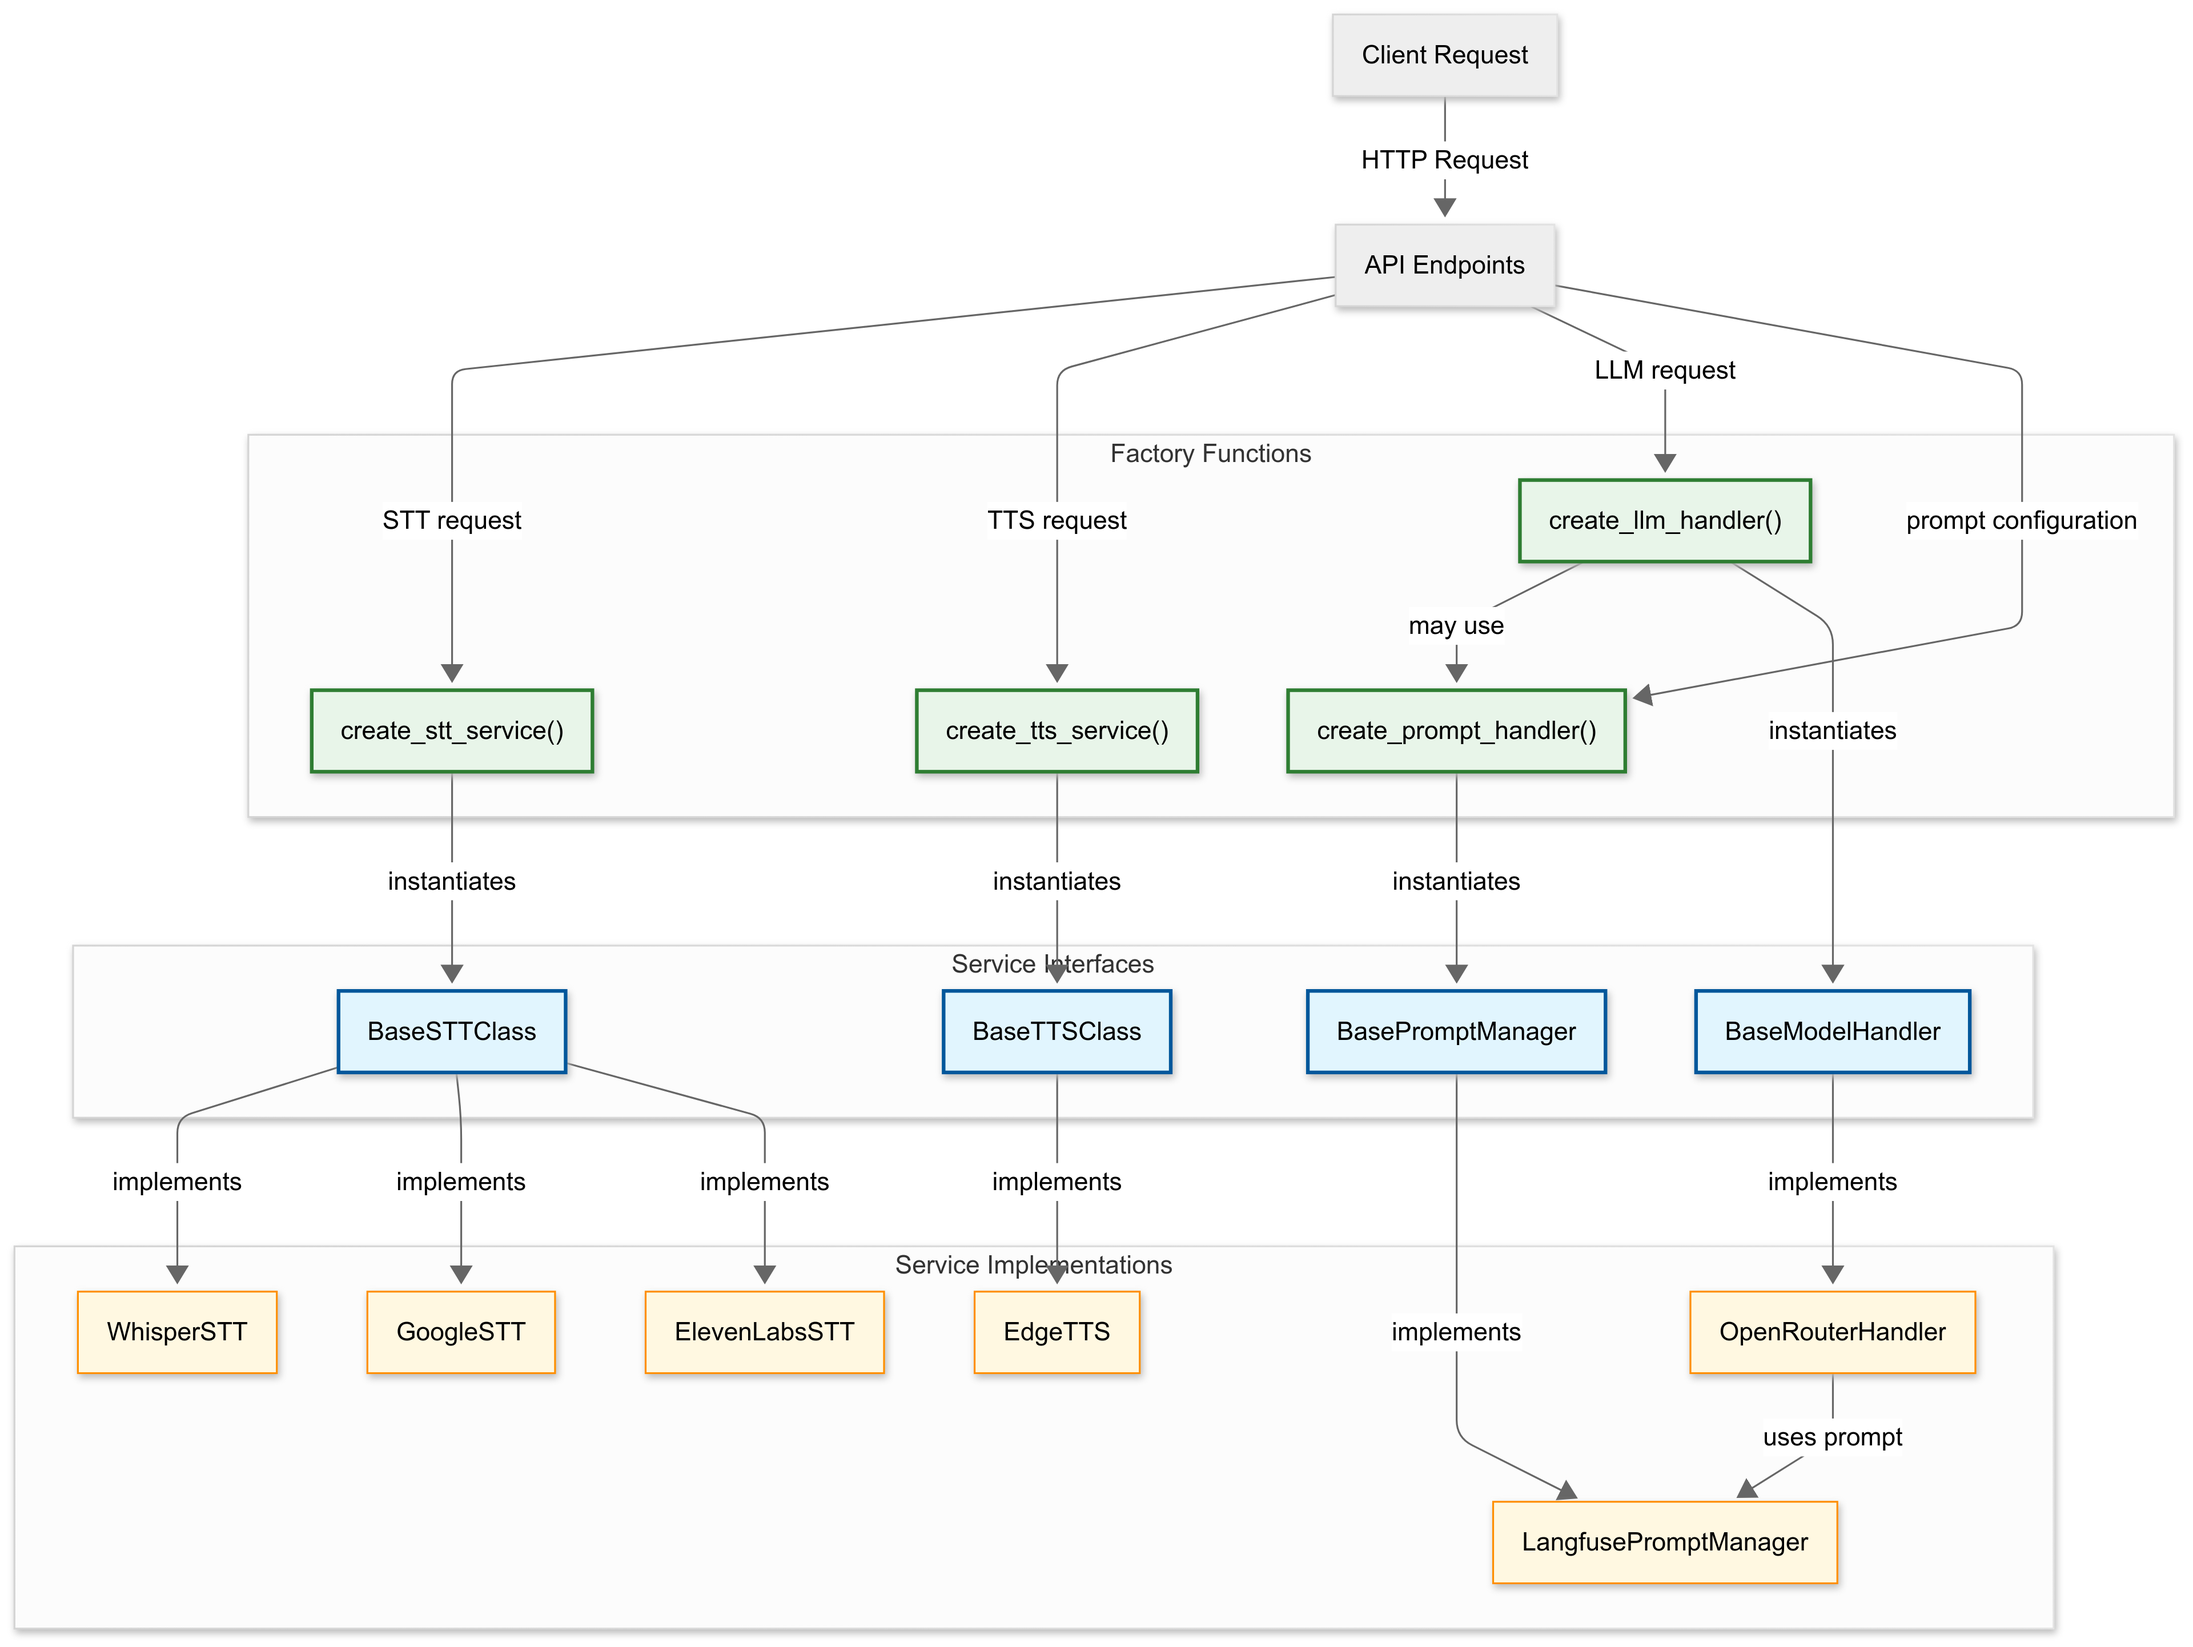
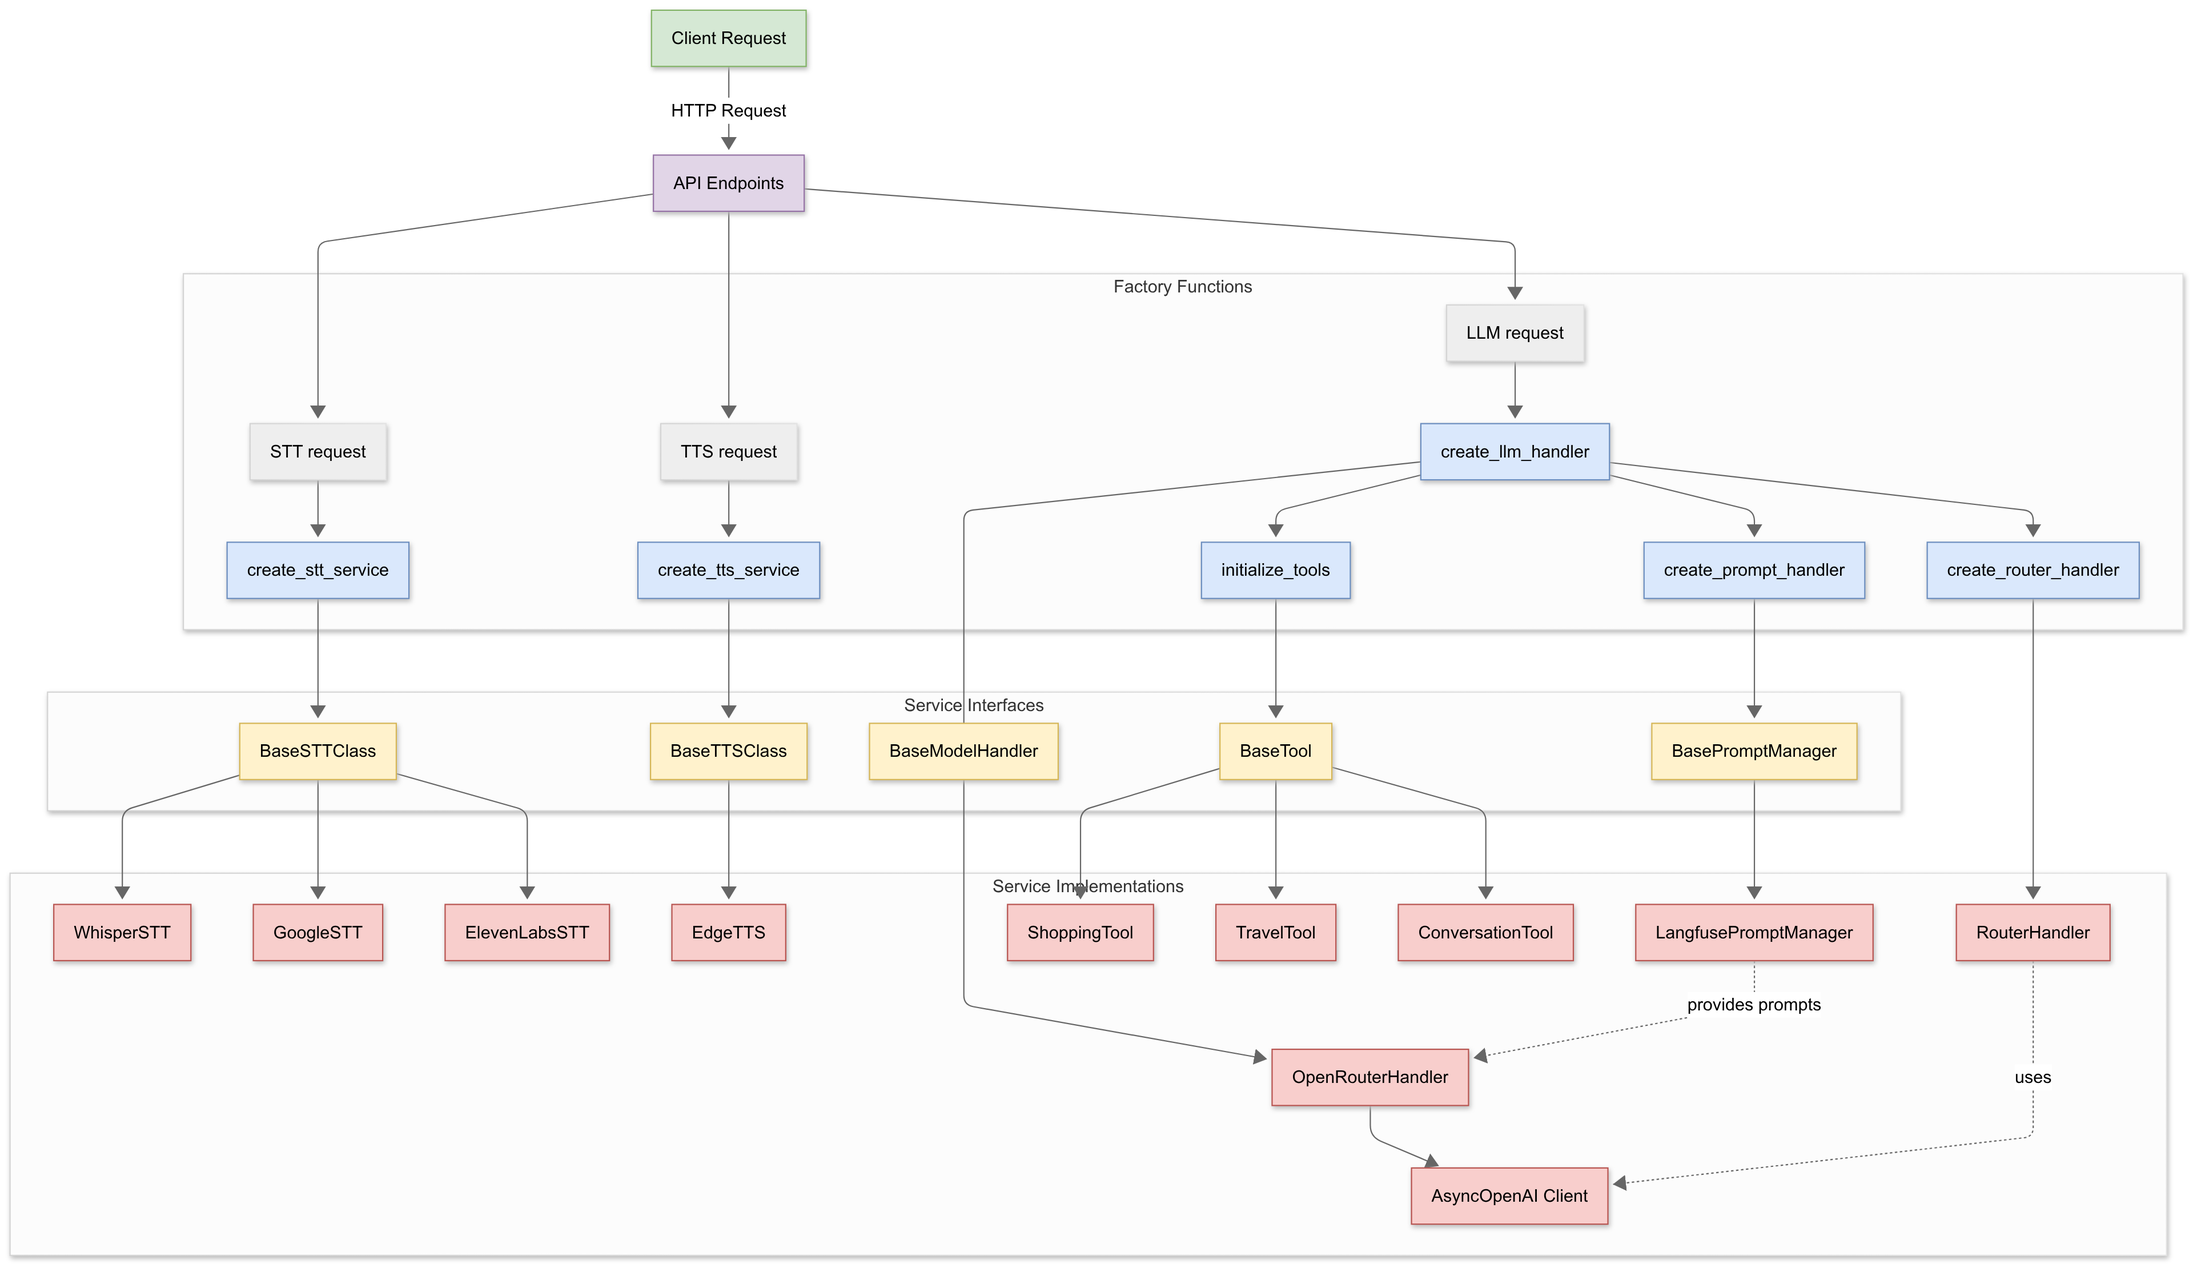
doc_updated

diff --git a/docs/styles/custom.css b/docs/styles/custom.css
@@ -49,7 +49,7 @@ font-weight: 250;
   display: block;
   margin: 2rem auto;
   max-width: 100%;
-  padding: 2px;
+  padding: 5px;
   border-radius: 12px;
   box-shadow: 0 10px 25px rgba(0, 0, 0, 0.035);
 }

diff --git a/docs/developer.md b/docs/developer.md
@@ -11,9 +11,9 @@ The system integrates multiple Speech-to-Text (STT) and Text-to-Speech (TTS) ser
 To understand the operation of the PatternAI Agent, this section will guide through the process flow, from the initial receipt of a user's request to the generation and delivery of a response. Key system components and their interactions will be unpacked.
 
 ### The Foundation {: .sub-heading}
-- `/app`: This directory houses the core application logic and services that drive the agent's functionality. It includes:
+- **[/app](#){ style="color:rgb(7,10,39);"}** : This directory houses the core application logic and services that drive the agent's functionality. It includes:
 
-  `/services/`: encapsulates the core AI processing logic of the PatternAI Agent. It defines abstract interfaces and provides concrete implementations for key AI processing capabilities.
+  **[/services](#){ style="color:rgb(7,10,39);"}** : encapsulates the core AI processing logic of the PatternAI Agent. It defines abstract interfaces and provides concrete implementations for key AI processing capabilities.
 
   These capabilities are organized into the following sub-modules:
 
@@ -21,28 +21,59 @@ To understand the operation of the PatternAI Agent, this section will guide thro
     ```
     services/
     ├── llm/
-    │   ├── __init__.py              # Factory: creates LLM handler (OpenRouter/custom)
-    │   ├── base_handler.py          # Abstract base class for LLMs (defines prompt + interface)
-    │   └── openrouter_handler.py    # Implementation using OpenRouter API
+    │   ├── __init__.py                # Factory: creates LLM handler (OpenRouter/custom)
+    │   ├── base_handler.py            # Abstract base class for LLMs (defines prompt + interface)
+    │   ├── openrouter_handler.py      # Implementation using OpenRouter API
+    │   ├── router_handler.py          # Routes queries to tools based on user intent
+    │   ├── conversation_history.py    # Maintains chat history with truncation logic
+    │   ├── prompts/                   # Prompt management logic (Langfuse or static)
+    │   ├── tools/                     # Tool execution logic and OpenAI-compatible tool specs
+    │   └── validators/                # Streaming and final response validation logic
     │
     ├── stt/
-    │   ├── __init__.py              # Factory: selects STT engine
-    │   ├── base_stt_handler.py      # Abstract base class for STT services
-    │   ├── whisper_stt.py           # STT via OpenAI Whisper API
-    │   ├── google_stt.py            # STT via Google Cloud Speech API
-    │   └── elevenlabs_stt.py        # STT via ElevenLabs API
+    │   ├── __init__.py                # Factory: selects STT engine
+    │   ├── base_stt_handler.py        # Abstract base class for STT services
+    │   ├── whisper_stt.py             # STT via OpenAI Whisper API
+    │   ├── google_stt.py              # STT via Google Cloud Speech API
+    │   ├── elevenlabs_stt.py          # STT via ElevenLabs API
+    │   └── stt_validation.py          # Validation and metrics for STT transcription
     │
     └── tts/
-        ├── __init__.py              # Factory: selects TTS engine
-        ├── base_tts_handler.py      # Abstract TTS base class, defines text-to-audio interface
-        └── edge_tts.py              # TTS implementation using Microsoft Edge TTS
+        ├── __init__.py               # Factory: selects TTS engine
+        ├── base_tts_handler.py       # Abstract TTS base class, defines text-to-audio interface
+        ├── edge_tts.py               # TTS implementation using Microsoft Edge TTS
+        └── tts_validation.py         # Validation for text-to-speech output 
     ```
 
-  `/llm`: provides a flexible interface for interacting with various Large Language Models (LLMs) through OpenRouter, with support for prompt management and model fallback mechanisms. The module is designed to be extensible, allowing for easy integration of additional LLM providers in the future.
+**[/llm](#){ style="color:rgb(7,10,39);"}** : orchestrates intelligent conversation flow through a sophisticated multi-layered architecture that transforms user intent into contextual, validated responses.Rather than simply connecting to language models, this module implements a complete reasoning pipeline that routes requests, maintains conversation context, validates outputs, and ensures reliable agent behavior.
 
-  `/stt`: a unified interface for converting speech to text using multiple cloud providers. It supports Whisper (OpenAI), Google Cloud Speech-to-Text, and ElevenLabs services through a common abstraction layer.
+#### LLM Service: Multi-Agent Architecture {: .sub-heading}
+##### **Tier 1 : Intent Recognition & Tool Selection**
+How does the system know where to send a request like "I need donuts"?
 
-  `/tts`: a standardized interface for converting text to speech using various synthesis engines. Currently implemented with Microsoft Edge's TTS service, the module is designed for easy extensibility to support additional providers.
+It’s handled by `router_handler.py/` and `tools.py/` using a dedicated LLM as an intelligent dispatcher. Using the configured LLM, it analyzes user intent and selects the most appropriate specialized tool from the available arsenal defined in tools_config.yaml. This isn't simple keyword matching - the router understands context, recognizing the difference between "I need coffee" **(shopping intent)** and "I want to travel to coffee county" **(travel intent)**. The routing system leverages a structured approach:
+
+- Analyzes user input against tool descriptions from **ROUTER_SYSTEM_PROMPT**
+- returns JSON-formatted routing decisions via `RouterHandler.route()`
+- `initialize_tools()` creates bidirectional mappings between tools and agents
+- Tools operate through unified interface `base_tool.py` with consistent behavior
+- Each tool knows its agent ID, enabling seamless transition to specialized processing
+
+!!! note "Note"
+    New domains can be added by simply creating new tool classes and updating the YAML configuration
+
+##### **Tier 2 : Contextual Conversation Management**
+Before any response generation begins, the layer `conversation_history.py/` enriches the interaction with memory. The ConversationHistory class maintains an intelligent sliding window of past interactions, applying both message count limits and token-based truncation to optimize context while preserving memory efficiency.
+
+##### **Tier 3 : Response Generation & Built-in Validation**
+This layer orchestrates LLM interaction through OpenRouterHandler, serving as the bridge between the internal agent system and external language models. This handler manages the complete response lifecycle:
+This handler manages the complete response lifecycle with integrated prompt management, streaming generation, real-time Pydantic validation of all streaming LLM responses to ensure structured output formatting and type safety.
+
+
+
+**[/stt](#){ style="color:rgb(7,10,39);"}** : a unified interface for converting speech to text using multiple cloud providers. It supports Whisper (OpenAI), Google Cloud Speech-to-Text, and ElevenLabs services through a common abstraction layer.
+
+**[/tts](#){ style="color:rgb(7,10,39);"}** : a standardized interface for converting text to speech using various synthesis engines. Currently implemented with Microsoft Edge's TTS service, the module is designed for easy extensibility to support additional providers.
 
 ### Service Traversal {: .sub-heading}
 The system operates through a series of coordinated steps that leverage the abstract interfaces and factory pattern to process user requests.
@@ -56,7 +87,7 @@ After initialization, the system interacts with each service through its abstrac
 
 The LLM processing and text-to-speech (TTS) flows follow a similar architectural pattern.
 
-- For LLMs, the system uses `create_llm_handler` to instantiate an `OpenRouterHandler`, which manages prompt handling, fallback mechanisms, and LLM interactions.
+- For LLMs, the system uses create_llm_handler to instantiate an OpenRouterHandler, which acts as the gateway to OpenRouter-backed language models. It supports prompt injection, conversation context, real-time streaming, and structured response validation, as detailed in the LLM service section above.
 - For TTS, the `create_tts_service` factory function initializes an EdgeTTS service that converts text input into audio bytes using the Microsoft Edge TTS engine.
 
 While models provide services by default, their performance can vary, a topic we'll explore using Langfuse later. Keeping that in mind, we've built a framework that allows developers to integrate models as they please.
@@ -78,25 +109,57 @@ service_registry = {
 
 Also we've optimized performance by implementing factory functions with LRU caching and custom cache logging decorators, preventing redundant service creation when the same configuration is requested multiple times. This allows dynamic, efficient, and configurable creation of service instances at runtime.
 
-`/tests/`: This directory contains unit and integration tests for the application logic, ensuring the reliability and correctness of the core functionalities. Tests are executed using the pytest framework.
+**[/tests](#){ style="color:rgb(7,10,39);"}** : This directory contains unit and integration tests for the application logic, ensuring the reliability and correctness of the core functionalities. Tests are executed using the pytest framework.
 
 To run all tests, use the following command:
 
 ```bash
 poetry run pytest
 ```
-
 #### Test Structure {: .sub-heading}
 
-The `tests/` directory is organized by module, with each file typically containing tests for a specific part of the application:
+The **[/tests](#){ style="color:rgb(7,10,39);"}** directory is organized by module, with each file typically containing tests for a specific part of the application:
 
 - `test_llm.py`: Contains tests for the Large Language Model (LLM) integration, including schema validation and semantic comparison of LLM outputs
 - `test_stt.py`: Contains tests for the Speech-to-Text (STT) service, covering different STT providers and transcription functionality
 - `test_tts.py`: Contains tests for the Text-to-Speech (TTS) service, including service creation, configuration, and speech synthesis
 - `conftest.py`: Provides helper functions and fixtures used across multiple test files. For example, the `cleaned_json` function normalizes JSON outputs from LLMs, which is crucial for testing LLM responses
 
+#### Refine & Tune {: .sub-heading}
+
+Creating safer, more humane conversational agents meant taking on the responsibility of ensuring responses remain fair, respectful, and trustworthy — not just intelligent.
+
+With that in mind,
+**[/filters](#){ style="color:rgb(7,10,39);"}** : Provides a modular text filtering framework that enforces ethical and contextual guardrails for agent outputs. It is responsible for detecting and handling:  
+
+- Personally Identifiable Information (PII)  
+- Biased language  
+- Profanity  
+
+Every filter is pluggable and configurable, allowing easy customization per agent use case.
+
+##### Design Philosophy {: .sub-heading}
+Filters follow the Strategy Pattern, built on a shared `BaseFilter` interface. Each filter implements an `apply(text: str) -> str` method, ensuring consistency and interchangeability.
+
+```python
+class BaseFilter(ABC):
+    @abstractmethod
+    def apply(self, text: str) -> str:
+        …
+```
+!!! note "Note"
+    This design allows us to dynamically register and apply filters, configured declaratively through a YAML file.
+
+##### Rule Engine {: .sub-heading}
+At runtime, the RuleEngine loads filters defined in configs.yaml, instantiates them, and applies them sequentially to incoming text enabling  centralized control,  easy reordering or disabling of filters and detailed logging of filter application.
+##### Filters in Use 
+- BiasFilter – Replaces predefined biased terms with neutral ones using regex-based replacements.
+- PIIFilter – Detects and anonymizes PII in plain text and json using presidio, with field-specific handling for dates and locations.
+- ProfanityFilter – Censors offensive language using both regex and the better_profanity library.
+
+
 ### Versatility and Modularity {: .sub-heading}
-- `/clients`: provides a flexible framework for implementing domain-specific conversational agents with WhatsApp integration. Each client gets its own isolated configuration and implementation while sharing core AI services (STT/TTS/LLM).
+- **[/clients](#){ style="color:rgb(7,10,39);"}** : provides a flexible framework for implementing domain-specific conversational agents with WhatsApp integration. Each client gets its own isolated configuration and implementation while sharing core AI services (STT/TTS/LLM).
 
 #### API Endpoints {: .sub-heading}
 With the core services for STT, TTS, and LLM dynamically monitored through our modular framework, these capabilities are made accessible to client applications via a set of clean, RESTful API endpoints. These endpoints handle everything from speech transcription to language and audio generation, providing a unified interface for seamless multi-modal conversations.
@@ -114,7 +177,7 @@ The service exposes the following endpoints:
 Verify if the service is running:
 
 ```bash
-curl -X POST "http://localhost:5000/health"
+curl -X GET "http://localhost:5000/health"
 ```
 
 **Response:**
@@ -131,7 +194,7 @@ Convert audio to text using the `/stt` endpoint.
 curl -X POST "http://localhost:5000/stt" \
   -H "Content-Type: application/octet-stream" \
   -H "STT-Model: whisper" \
-  --data-binary @audio_file.webm
+  --data-binary @"audio_file.webm"
 ```
 
 **Available STT models:**

diff --git a/docs/agent-build.md b/docs/agent-build.md
@@ -75,7 +75,7 @@ Only the data needed to process your current request is temporarily stored. For 
 For now, only voice and text messages are supported. Visual input features may be added in future versions.
 
 #### 7. Can I list places I want to visit and have the agent plan a route?
-Yes! You can say: [Content appears to be incomplete in source document]
+
 
 #### 8. What if my voice message had a mistake? Can I correct it?
 No worries! You can simply say "correct that" or resend the message — the assistant will wait for your confirmation before moving on.
